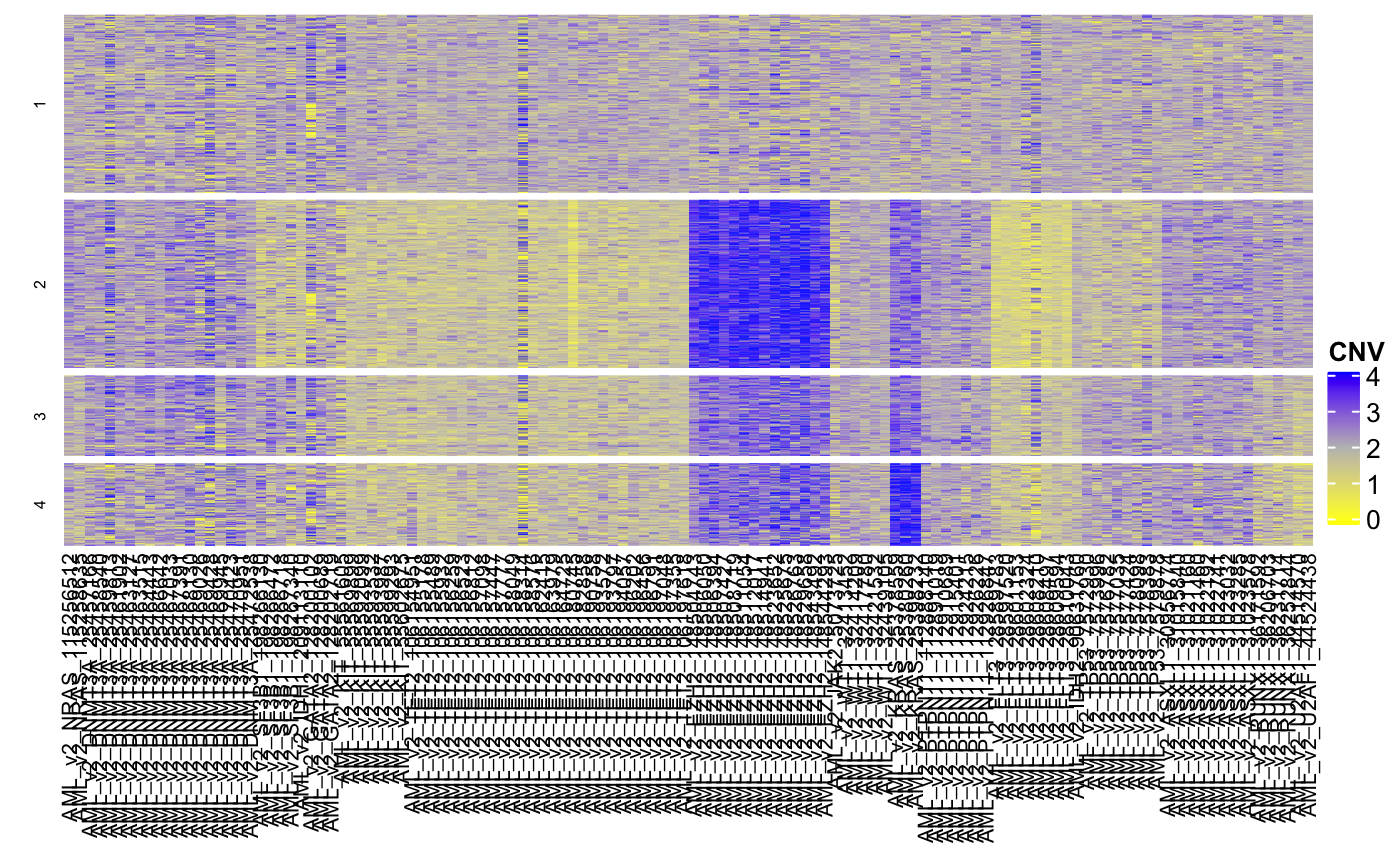
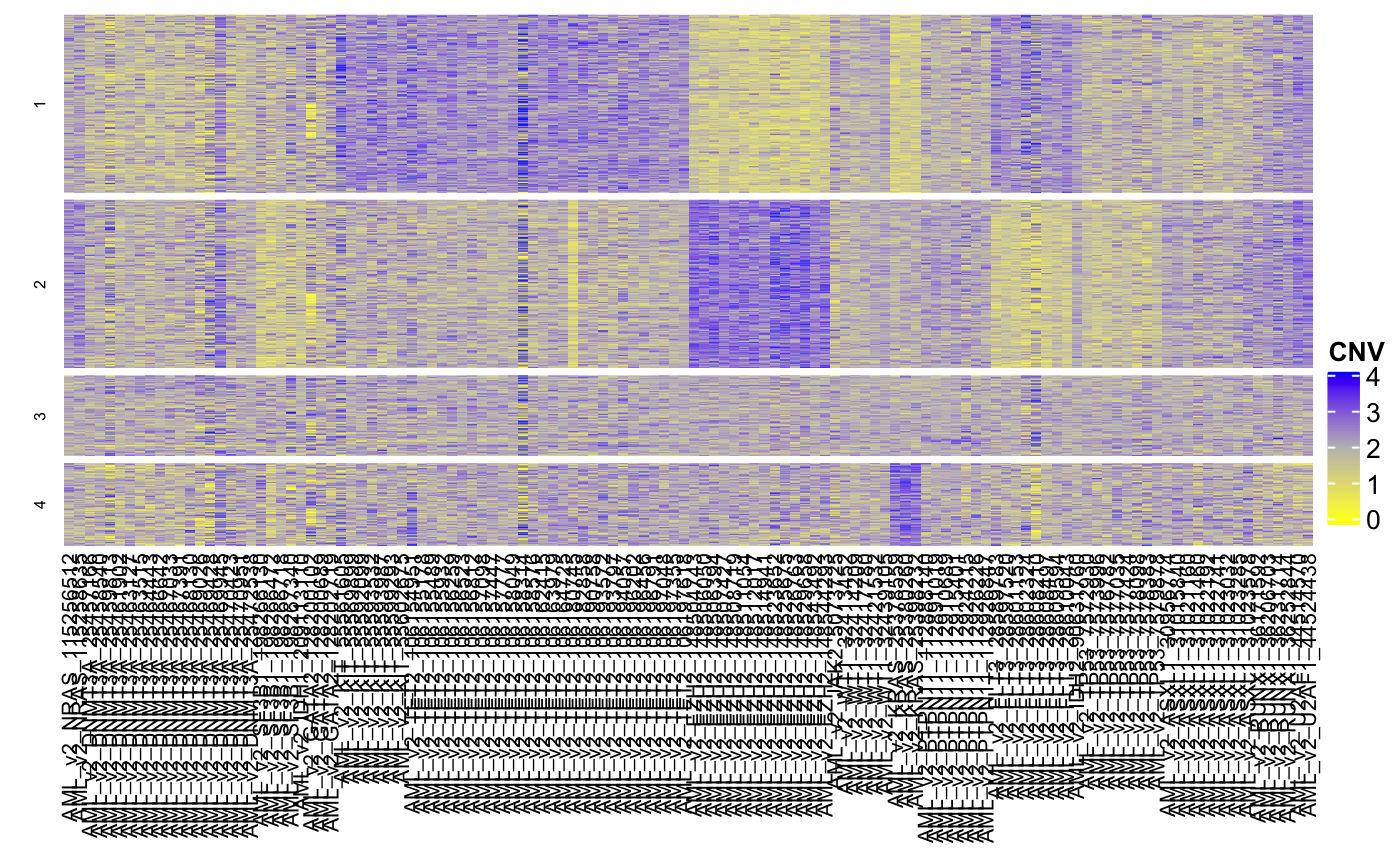
correct cnv baseline

diff --git a/docs/articles/multiomics_analysis.html b/docs/articles/multiomics_analysis.html
@@ -85,12 +85,6 @@
 
     
     
-<div id="introduction" class="section level1">
-<h1 class="hasAnchor">
-<a href="#introduction" class="anchor"></a>Introduction</h1>
-<p>Using the Mission Bio Tapestri Platform, reagents and the <em>tapestri</em> R package, we explore Single Nucleotide Variants (SNVs), protein expression and Copy Number Variations (CNVs), including loss of heterozygosity (LOH), which plays a large role in cancer evolution and contributes to cancer heterogeneity. More details can be found in the [Application Note] (<a href="https://missionbio.com/protein-reva-application-note-form/" class="uri">https://missionbio.com/protein-reva-application-note-form/</a>).</p>
-<p>The <em>tapestri</em> R package is an exploratory data analysis tool. Refer to the README.md file for instructions on how to install the <em>tapestri</em> R package.</p>
-</div>
 <div id="load-multiomics-h5" class="section level1">
 <h1 class="hasAnchor">
 <a href="#load-multiomics-h5" class="anchor"></a>Load multiomics H5</h1>
@@ -548,7 +542,7 @@
 <span class="no">cnv.mat</span> <span class="kw">=</span> <span class="fu"><a href="../reference/compute_ploidy.html">compute_ploidy</a></span>(
   <span class="kw">reads</span> <span class="kw">=</span> <span class="no">experiment</span>$<span class="no">assays</span>$<span class="no">cnv</span>$<span class="no">data_layers</span>$<span class="no">normalized</span>,
   <span class="kw">clusters</span> <span class="kw">=</span> <span class="no">experiment</span>$<span class="no">assays</span>$<span class="no">dna</span>$<span class="no">analysis_layers</span>$<span class="no">umap_vaf_clusters</span>$<span class="no">umap.kmean.cluster.4</span>,
-  <span class="kw">baseline_cluster</span> <span class="kw">=</span> <span class="fl">1</span>
+  <span class="kw">baseline_cluster</span> <span class="kw">=</span> <span class="fl">3</span>
  )
 <span class="no">experiment</span>$<span class="no">assays</span>$<span class="no">cnv</span> <span class="kw">&lt;-</span> <span class="fu"><a href="../reference/add_analysis_layer.html">add_analysis_layer</a></span>(<span class="kw">assay</span> <span class="kw">=</span> <span class="no">experiment</span>$<span class="no">assays</span>$<span class="no">cnv</span>,<span class="kw">layer_name</span> <span class="kw">=</span> <span class="st">'norm_to_baseline'</span>,<span class="kw">data</span> <span class="kw">=</span> <span class="no">cnv.mat</span>)</pre></body></html></div>
 </div>
